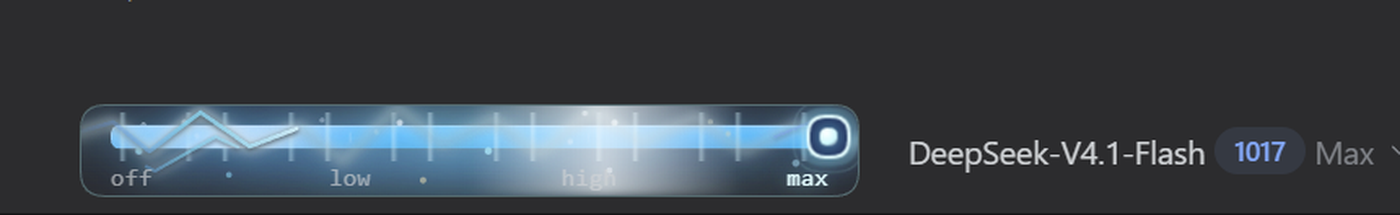
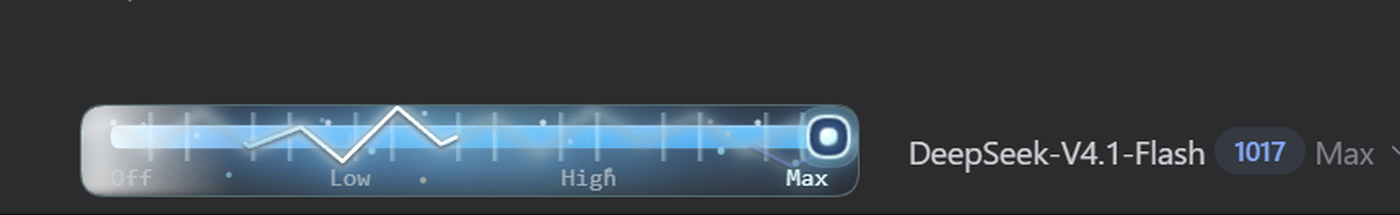
fix(plugin): title-case the four effort labels (v1.2.1)

Changed region(s): [[0.0307, 0.4744, 0.6143, 0.9209], [0.215, 0.7814, 0.2457, 0.8651], [0.5836, 0.4744, 0.6143, 0.5023]]

diff --git a/plugins/dsh-reasoning-effort-dock/client.js b/plugins/dsh-reasoning-effort-dock/client.js
@@ -17,7 +17,14 @@ window.__ModuleLoader__.load({
 
     const NS = 'dsh-reasoning-effort-dock';
     const LEVEL_ORDER = ['off', 'low', 'high', 'max'];
+    const LEVEL_NAMES = Object.freeze({ off: 'Off', low: 'Low', high: 'High', max: 'Max' });
     const DEFAULT_LABEL = '推理强度';
+
+    function levelDisplayName(value) {
+      const key = String(value ?? '').toLowerCase();
+      if (LEVEL_NAMES[key]) return LEVEL_NAMES[key];
+      return key ? key.charAt(0).toUpperCase() + key.slice(1) : 'Off';
+    }
 
     const CSS = `
 .dsh-effort {
@@ -799,6 +806,7 @@ window.__ModuleLoader__.load({
           ? indexRatio(activeIndex, levels.length)
           : 0;
       const displayLevel = displayIndex >= 0 ? levels[displayIndex] : 'off';
+      const displayText = levelDisplayName(displayLevel);
       const fillPercent = (displayRatio * 100).toFixed(4) + '%';
       const thumbPercent = (displayRatio * 100).toFixed(4) + '%';
       const activeLabelIndex = drag ? drag.index : hasActive ? activeIndex : -1;
@@ -951,7 +959,7 @@ window.__ModuleLoader__.load({
               'aria-valuemin': 0,
               'aria-valuemax': levels.length - 1,
               'aria-valuenow': hasActive ? activeIndex : 0,
-              'aria-valuetext': displayLevel,
+              'aria-valuetext': displayText,
               'aria-busy': busy ? 'true' : undefined,
               'aria-disabled': busy ? 'true' : undefined,
               onPointerDown: beginDrag,
@@ -1081,7 +1089,7 @@ window.__ModuleLoader__.load({
                     transform: isFirst ? 'none' : isLast ? 'translateX(-100%)' : 'translateX(-50%)',
                   },
                 },
-                level
+                levelDisplayName(level)
               );
             })
           )

diff --git a/plugins/dsh-reasoning-effort-dock/README.md b/plugins/dsh-reasoning-effort-dock/README.md
@@ -16,7 +16,7 @@
   <a href="LICENSE"><img alt="MIT" src="https://img.shields.io/badge/license-MIT-2ea44f"></a>
 </p>
 
-![Reasoning Effort Dock at max effort](assets/screenshots/max.png)
+![Reasoning Effort Dock at Max effort](assets/screenshots/max.png)
 
 ## What it does
 
@@ -26,10 +26,10 @@ native reasoning levels as a snap slider rather than a menu:
 
 | Stop | Meaning |
 | --- | --- |
-| `off` | No reasoning effort |
-| `low` | Light reasoning |
-| `high` | High reasoning |
-| `max` | Maximum reasoning effort |
+| `Off` | No reasoning effort |
+| `Low` | Light reasoning |
+| `High` | High reasoning |
+| `Max` | Maximum reasoning effort |
 
 - Drag the thumb, click the track, or use the arrow keys; the thumb always
   snaps to one of the four fixed levels.
@@ -40,13 +40,13 @@ native reasoning levels as a snap slider rather than a menu:
   real reasoning parameter used by the next request, not a display-only value.
 - Blank new sessions and existing conversations both render the control,
   because it is registered in `conversation.input.right` in the composer row.
-- Only `max` adds the blue-white electric layer plus a soft lateral white
+- Only `Max` adds the blue-white electric layer plus a soft lateral white
   sweep, fine vertical streak flow, drifting sparks, ambient halo, and thumb
-  pulse. `off`, `low`, and `high` cross-fade through their own fill colors while
+  pulse. `Off`, `Low`, and `High` cross-fade through their own fill colors while
   a subtle iridescent highlight keeps the bar visually continuous.
 - The widget border is the clipping boundary: effects may cross the blue rail,
   but nothing can paint outside the rounded module.
-- On `max`, two short warm-gold starlight flashes cross the full rail per cycle;
+- On `Max`, two short warm-gold starlight flashes cross the full rail per cycle;
   they are intentionally a different colour from the blue-white lightning.
 - A quiet blue/cyan starfield around the bar, plus a few star specks in the
   track, echo the cosmic theme without turning the control into a rainbow.
@@ -93,7 +93,7 @@ into a profile with `dsh plugin --profile <profile> add <package-directory>`.
 ## Usage
 
 1. Start a new conversation or open an existing one.
-2. Move the slider to `off`, `low`, `high`, or `max`.
+2. Move the slider to `Off`, `Low`, `High`, or `Max`.
 3. Send the next message. The selected level is the reasoning effort used for
    the request; the native model menu shows the same level.
 
@@ -132,8 +132,8 @@ The plugin was also exercised in the running DSH Web UI against
 
 - a new blank session renders the 400 × 38 control;
 - switching to an existing session keeps it rendered;
-- a pointer-driven move to `high` changes the native model-selection state to
-  `High`, and moving back to `max` restores `Max`.
+- a pointer-driven move to `High` changes the native model-selection state to
+  `High`, and moving back to `Max` restores `Max`.
 
 ## License
 

diff --git a/plugins/dsh-reasoning-effort-dock/CHANGELOG.md b/plugins/dsh-reasoning-effort-dock/CHANGELOG.md
@@ -4,6 +4,14 @@ All notable changes to this plugin are documented here. The format follows
 [Keep a Changelog](https://keepachangelog.com/en/1.1.0/) and the project uses
 semantic versioning.
 
+## [1.2.1] - 2026-10-25
+
+### Changed
+
+- Displayed level names are now title case: `Off`, `Low`, `High`, and `Max`.
+  The values sent to DSH's model-selection API remain the native lowercase ids.
+- `aria-valuetext` now uses the same title-case names.
+
 ## [1.2.0] - 2026-10-25
 
 ### Changed
